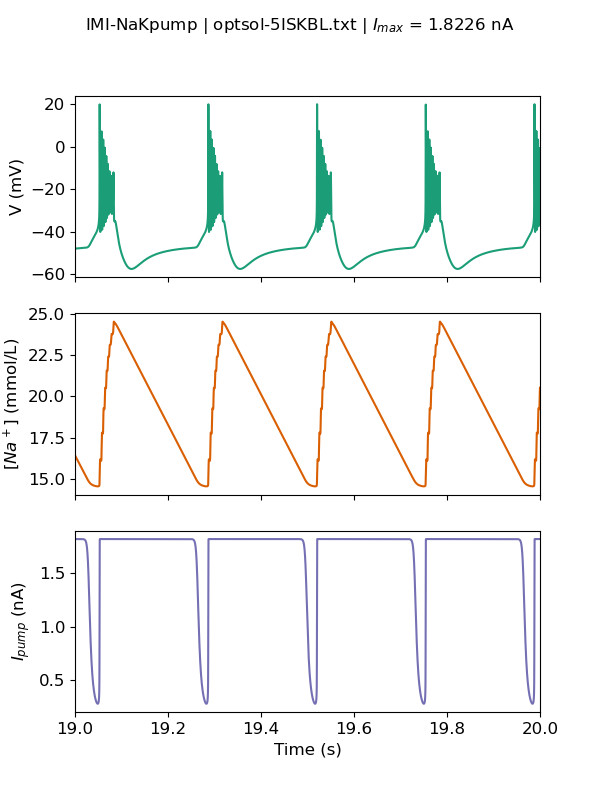
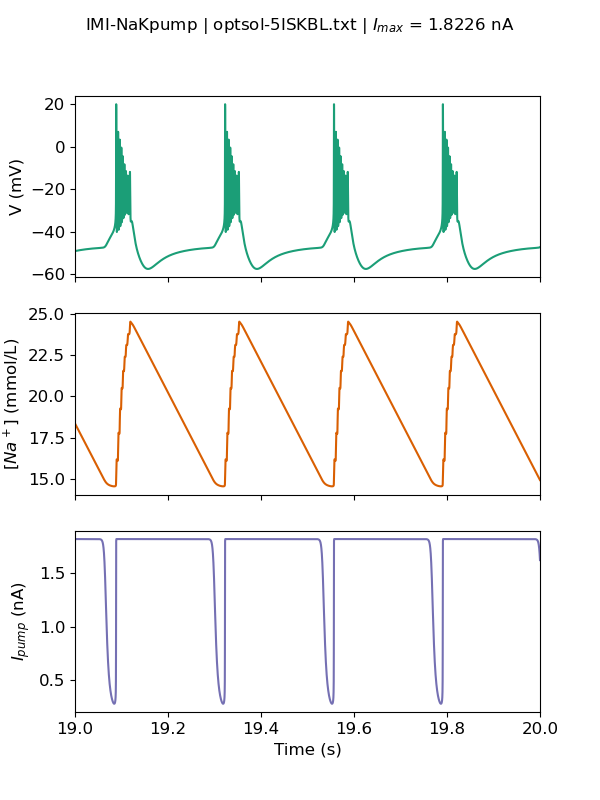
Complete investigation of 5ISKBL

diff --git a/plotpumps.py b/plotpumps.py
@@ -1,16 +1,19 @@
-import matplotlib as mpl
 import matplotlib.pyplot as plt
 import matplotlib.gridspec as gridspec
 import numpy as np
 import subprocess
 
+# Specify parameter set
+hashname = '5ISKBL'
+
+# Specify colors
+colorwheel = ['#517990','#1f78b4','#608a35','#33a02c','#fb9a99','#e31a1c','#fdbf6f',
+				'#ff7f00','#756081','#6a3d9a','#777711','#b15928']
+
 # Calculate pump current
 def getipump(p, sol):
 	ipump = p[39] * p[40] / (1 + np.exp((p[42] - sol[:,-1]) / p[41]))
 	return ipump
-
-# Specify parameter set
-hashname='5ISKBL'
 
 # Load the model
 pfname='optsol-'+hashname+'.txt'
@@ -19,7 +22,7 @@ originalp = p.copy()
 print(f'{originalp[40] = }')
 
 # Run the model
-command = 'java -cp celltemp.jar findcells.integrateTempCompCell_imi_realclean_NaKpump_rk4 cis_realclean_NaKpump.txt '+pfname+' 20 25 0.05 > sol.txt'
+command = 'java -cp celltemp.jar findcells.integrateTempCompCell_imi_realclean_NaKpump_rk4 cis_realclean_NaKpump.txt '+pfname+' 20 25 0.1 > sol.txt'
 subprocess.run(command, shell=True)
 sol = np.genfromtxt('sol.txt')
 time = np.linspace(0,20,len(sol))
@@ -27,8 +30,6 @@ ipump = getipump(p,sol)
 
 # Plot the control parameter set
 fig, axs = plt.subplots(3, sharex=True, figsize=(6,8))
-plt.xticks(fontsize=12)
-plt.yticks(fontsize=12)
 axs[0].plot(time[time>19],sol[:,0][time>19],color='#1b9e77')
 axs[0].set_ylabel('V (mV)', fontsize=12)
 axs[0].set_xlim(19,20)
@@ -42,3 +43,46 @@ axs[2].set_ylabel('$I_{pump}$ (nA)', fontsize=12)
 axs[2].tick_params(labelsize=12)
 fig.suptitle(f'IMI-NaKpump | {pfname} | $I_{{max}}$ = {p[40]} nA', fontsize=12)
 fig.savefig('control-'+hashname+'.png')
+
+# Plot I_max varied from 0% to 220% of control
+fig, axs = plt.subplots(12, sharex=True, figsize=(9,12))
+for i in range(12):
+	# Vary I_max by specified factor
+	p = originalp.copy()
+	factor = round(i * 0.2, 1)
+	percentage = int(factor * 100)
+	p[40] = p[40] * factor
+	print(f'{p[40] = }')
+
+	# Run the model
+	np.savetxt(pfname, p)
+	command = 'java -cp celltemp.jar findcells.integrateTempCompCell_imi_realclean_NaKpump_rk4 cis_realclean_NaKpump.txt '+pfname+' 20 25 0.1 > sol.txt'
+	subprocess.run(command, shell=True)
+	sol = np.genfromtxt('sol.txt')
+	time = np.linspace(0,20,len(sol))
+
+	# Plot the varied parameter set
+	axs[i].plot(time[time>19], sol[:,0][time>19], color=colorwheel[i])
+	axs[i].plot(time[time>19], -50*np.ones(len(sol))[time>19], color='black', ls='dashed')
+	axs[i].vlines(19.9, -50, 0, lw=5, color='black')
+	axs[i].plot(19.9, -50, 's', color='#1b9e77')
+	axs[i].plot(19.9, 0, 's', color='#d95f02')
+	bboxprops = dict(boxstyle='square', facecolor='white', edgecolor='black')
+	axs[i].annotate('-50 mV', xy=(19.9, -50), xytext=(9, 0), color='#1b9e77',
+					textcoords='offset points', horizontalalignment='left', weight='bold',
+					verticalalignment='center', annotation_clip=False, bbox=bboxprops)
+	axs[i].annotate('0 mV', xy=(19.9, 0), xytext=(19.5, 0), color='#d95f02',
+					textcoords='offset points', horizontalalignment='left', weight='bold',
+					verticalalignment='center', annotation_clip=False, bbox=bboxprops)
+	axs[i].set_xlim(19,20)
+	axs[i].tick_params(left=False, bottom=False, labelleft=False, labelbottom=False)
+	if i != 5:
+		axs[i].set_frame_on(False)
+	axs[i].set_ylabel(f'{percentage}%', fontsize=15, color=colorwheel[i])
+
+fig.suptitle(f'IMI-NaKpump | {pfname} | $I_{{max}}$ = 0% to 220%', fontsize=15)
+fig.savefig('varied-I_max-'+hashname+'.png')
+
+# Restore control parameter set
+p = originalp.copy()
+np.savetxt(pfname, p)
